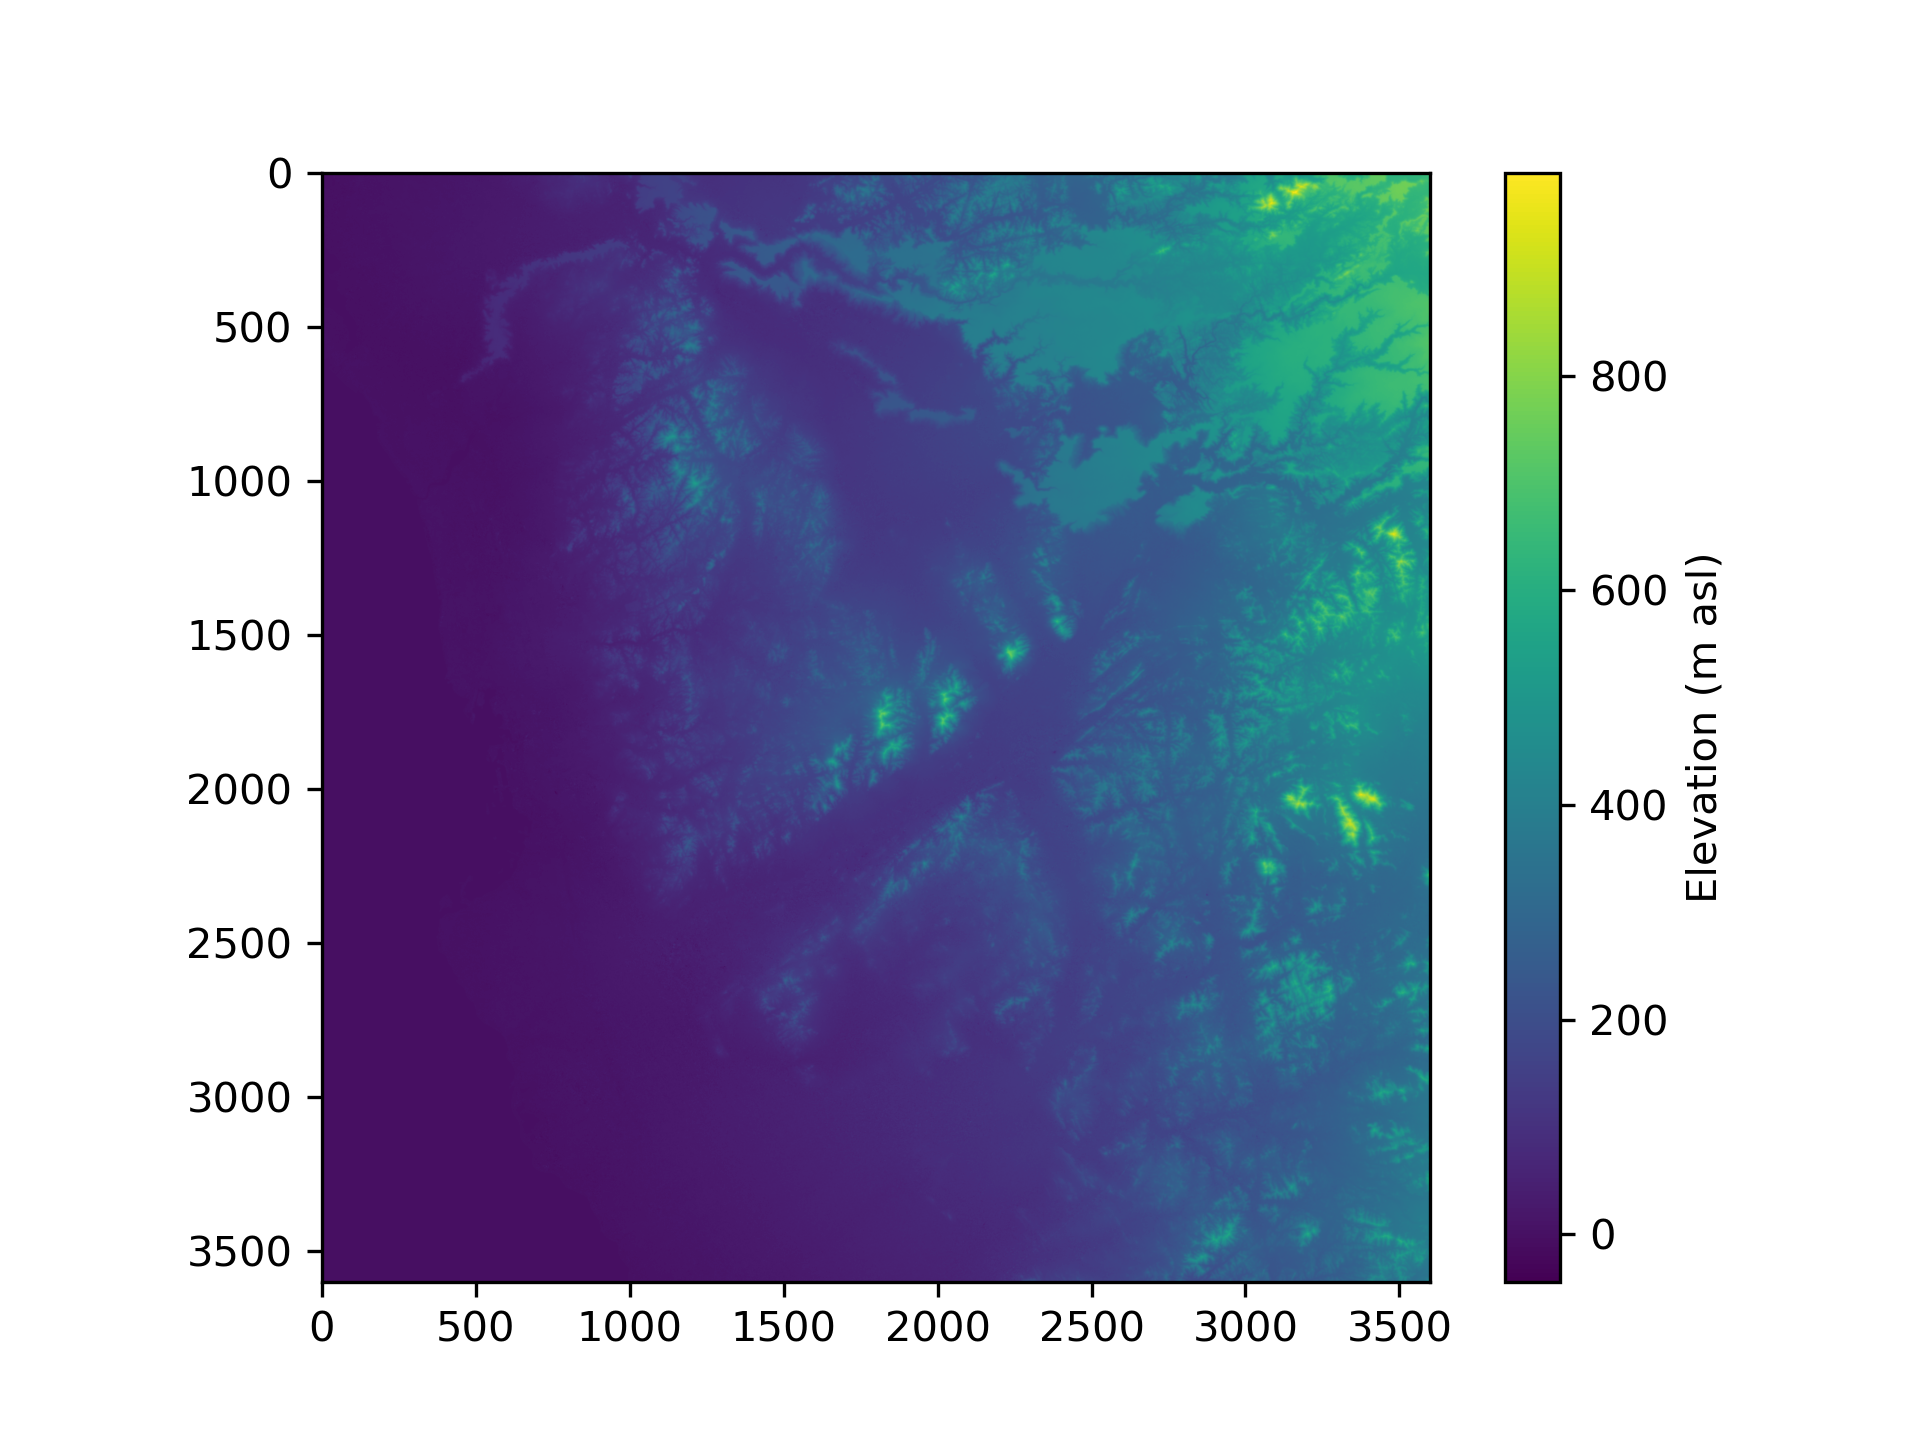
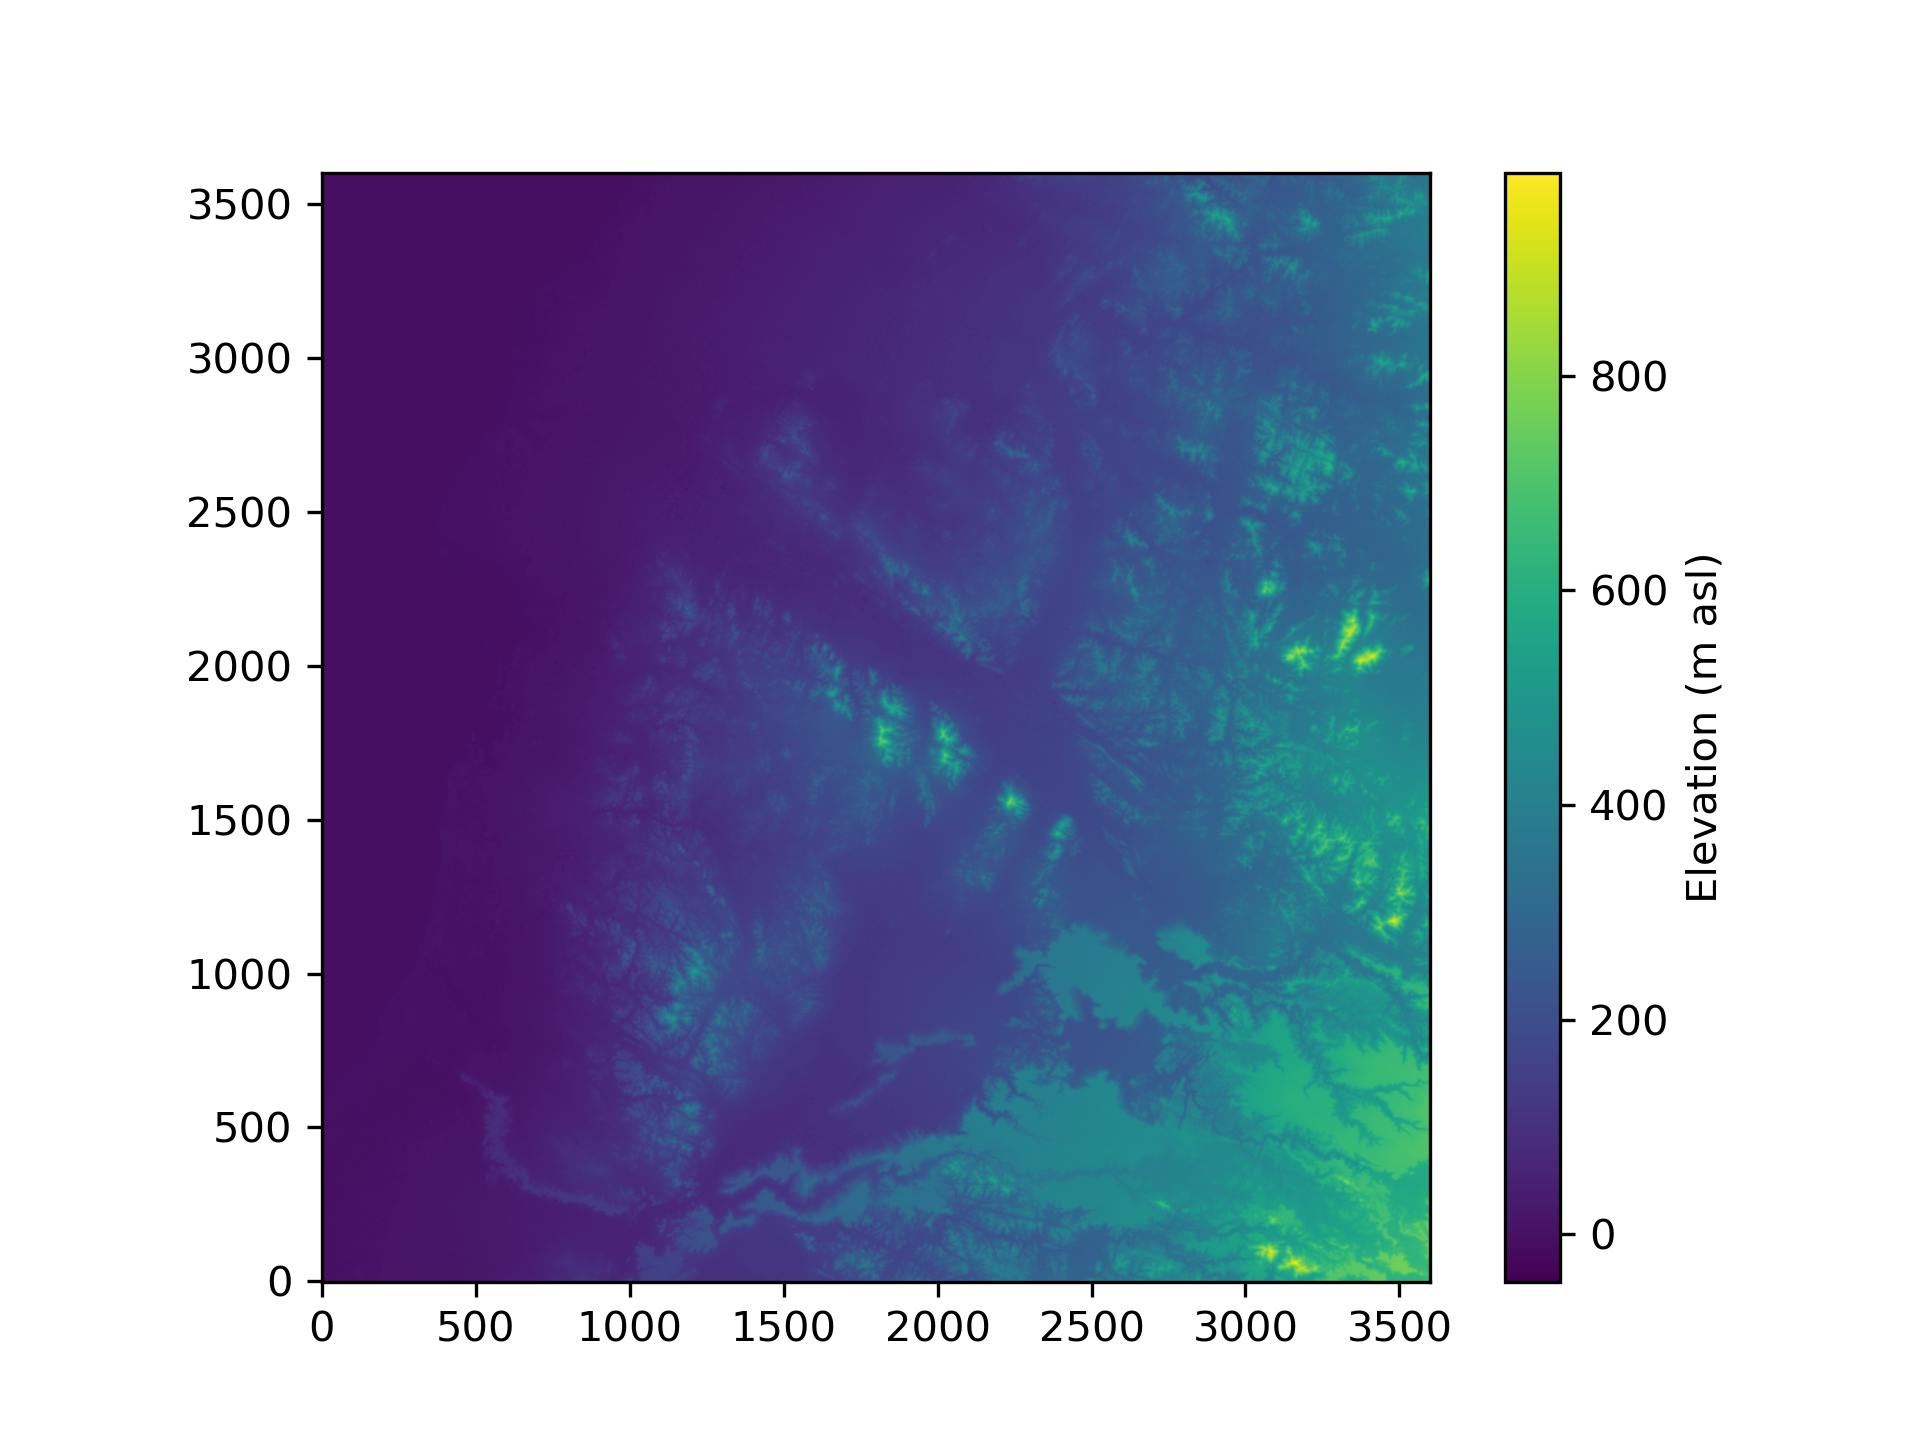
Initial Commit

diff --git a/assignment_1.py b/assignment_1.py
@@ -20,10 +20,9 @@ pdb.set_trace()
 dset.close()
 
 # visualize the data
-plt.imshow(DEM)
+plt.imshow(DEM,origin='lower')
 cbar = plt.colorbar()
 cbar.set_label("Elevation (m asl)")
-# plt.show()
-
 # save image into png
-plt.savefig("assignment_1.png",dpi=300)
+plt.savefig("assignment_1/assignment_1.png",dpi=300)
+plt.show()
